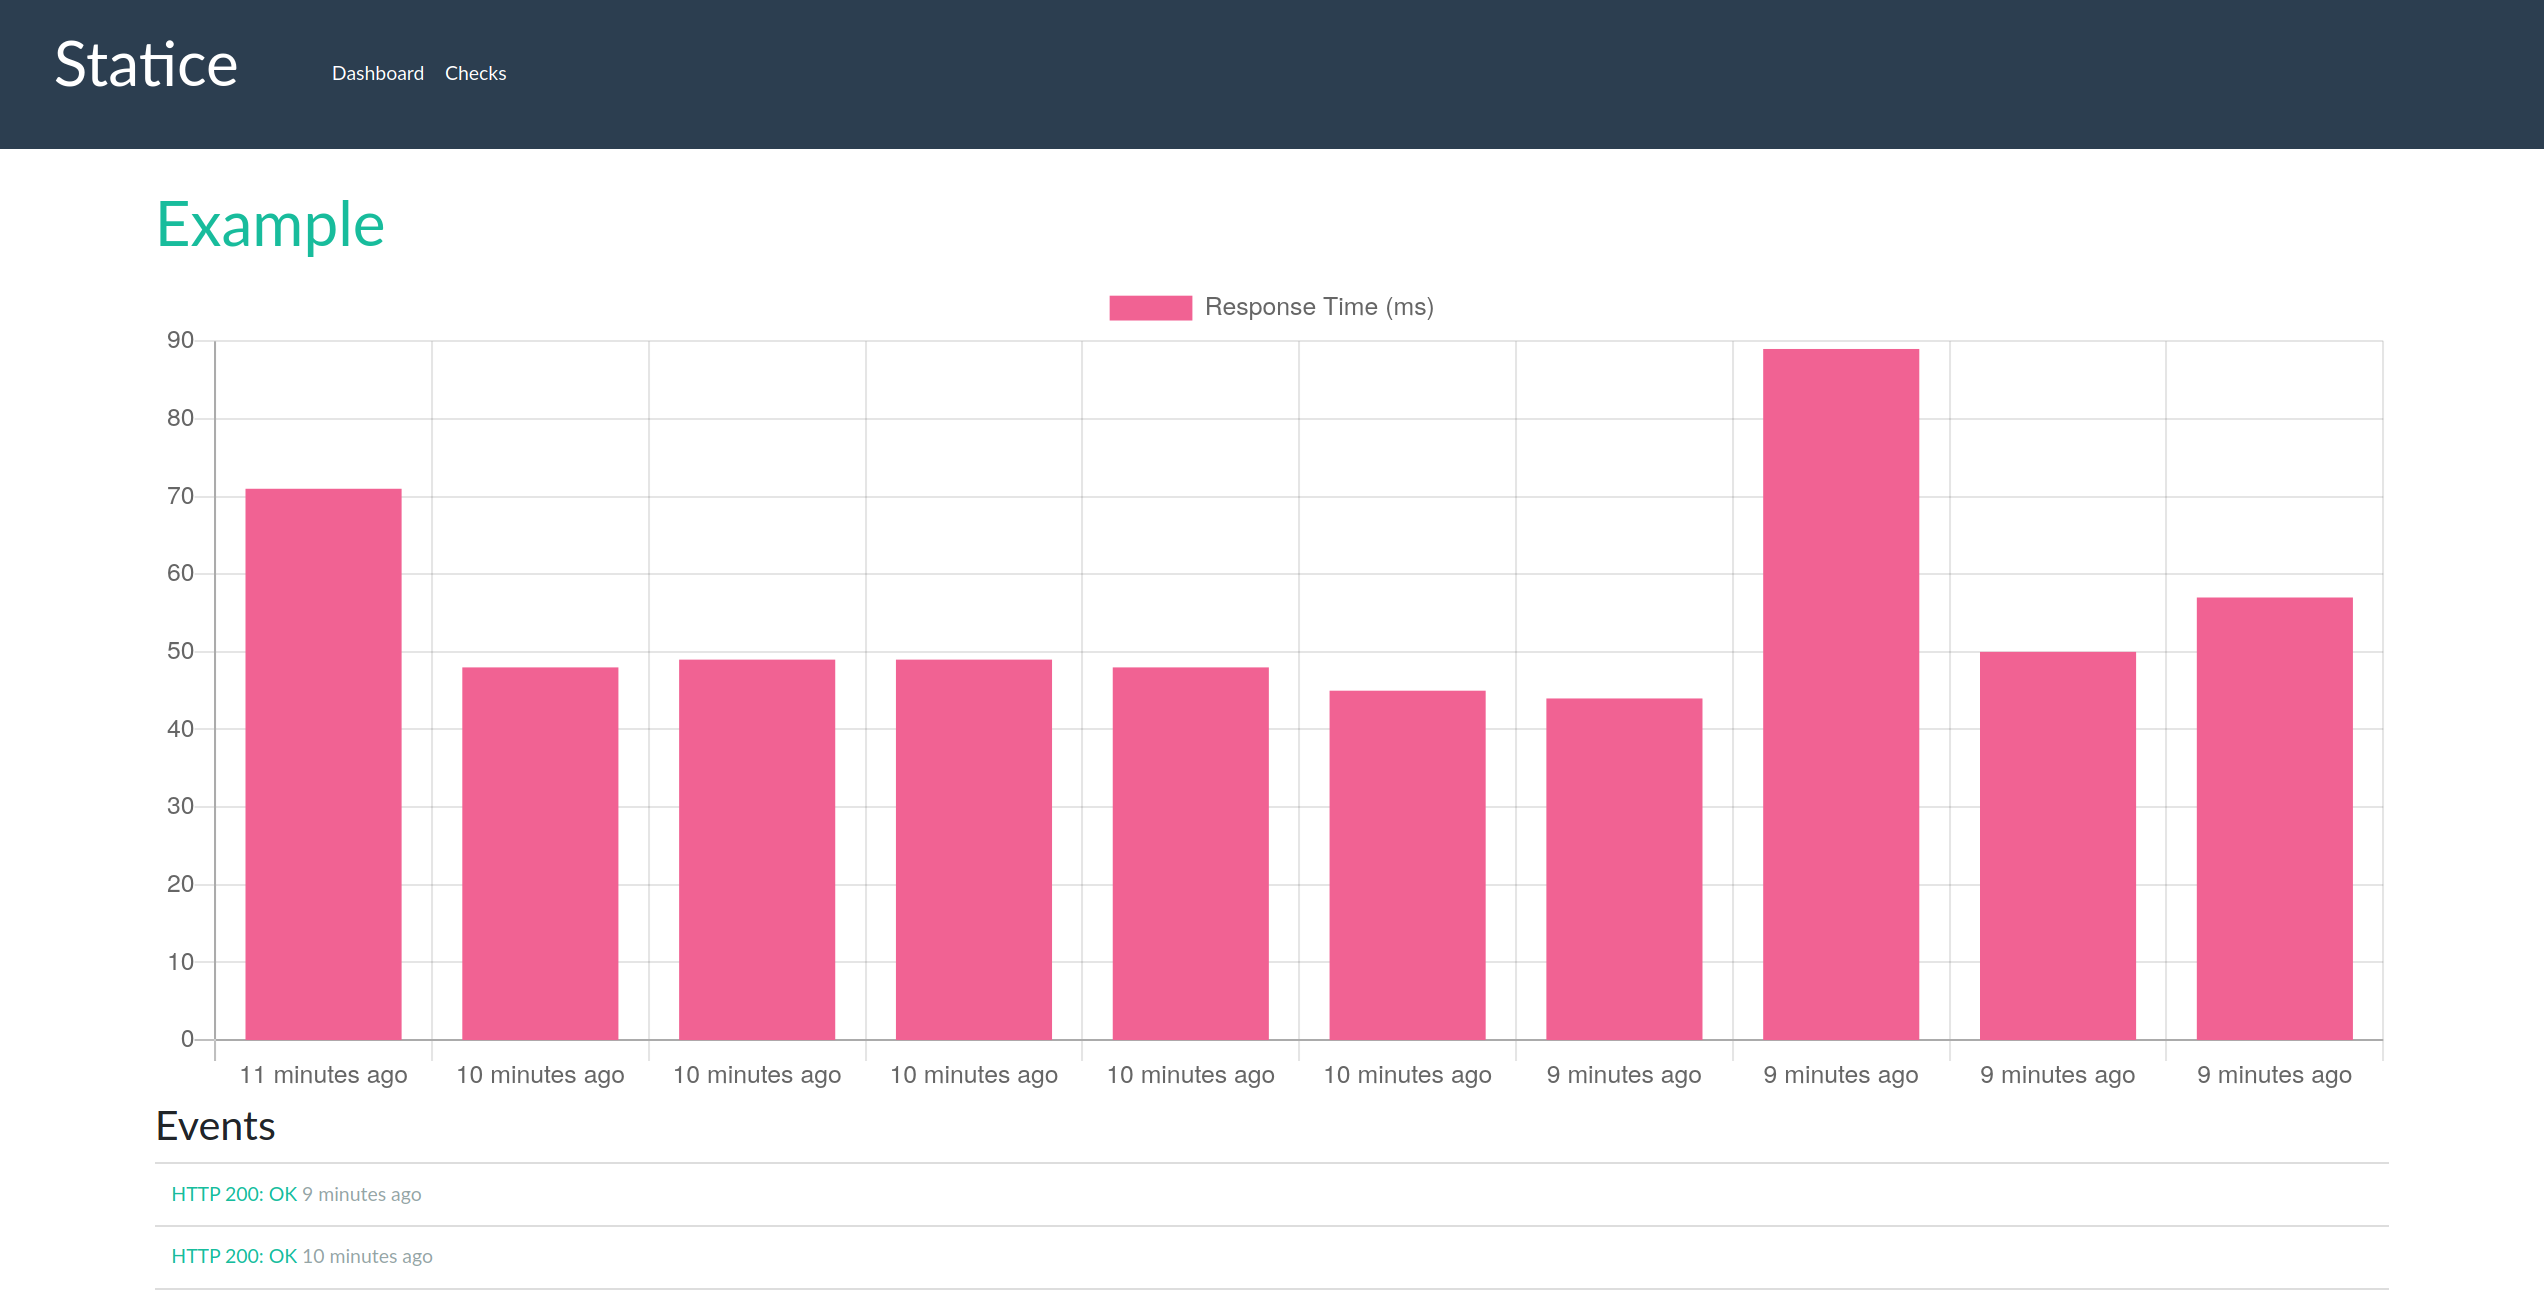
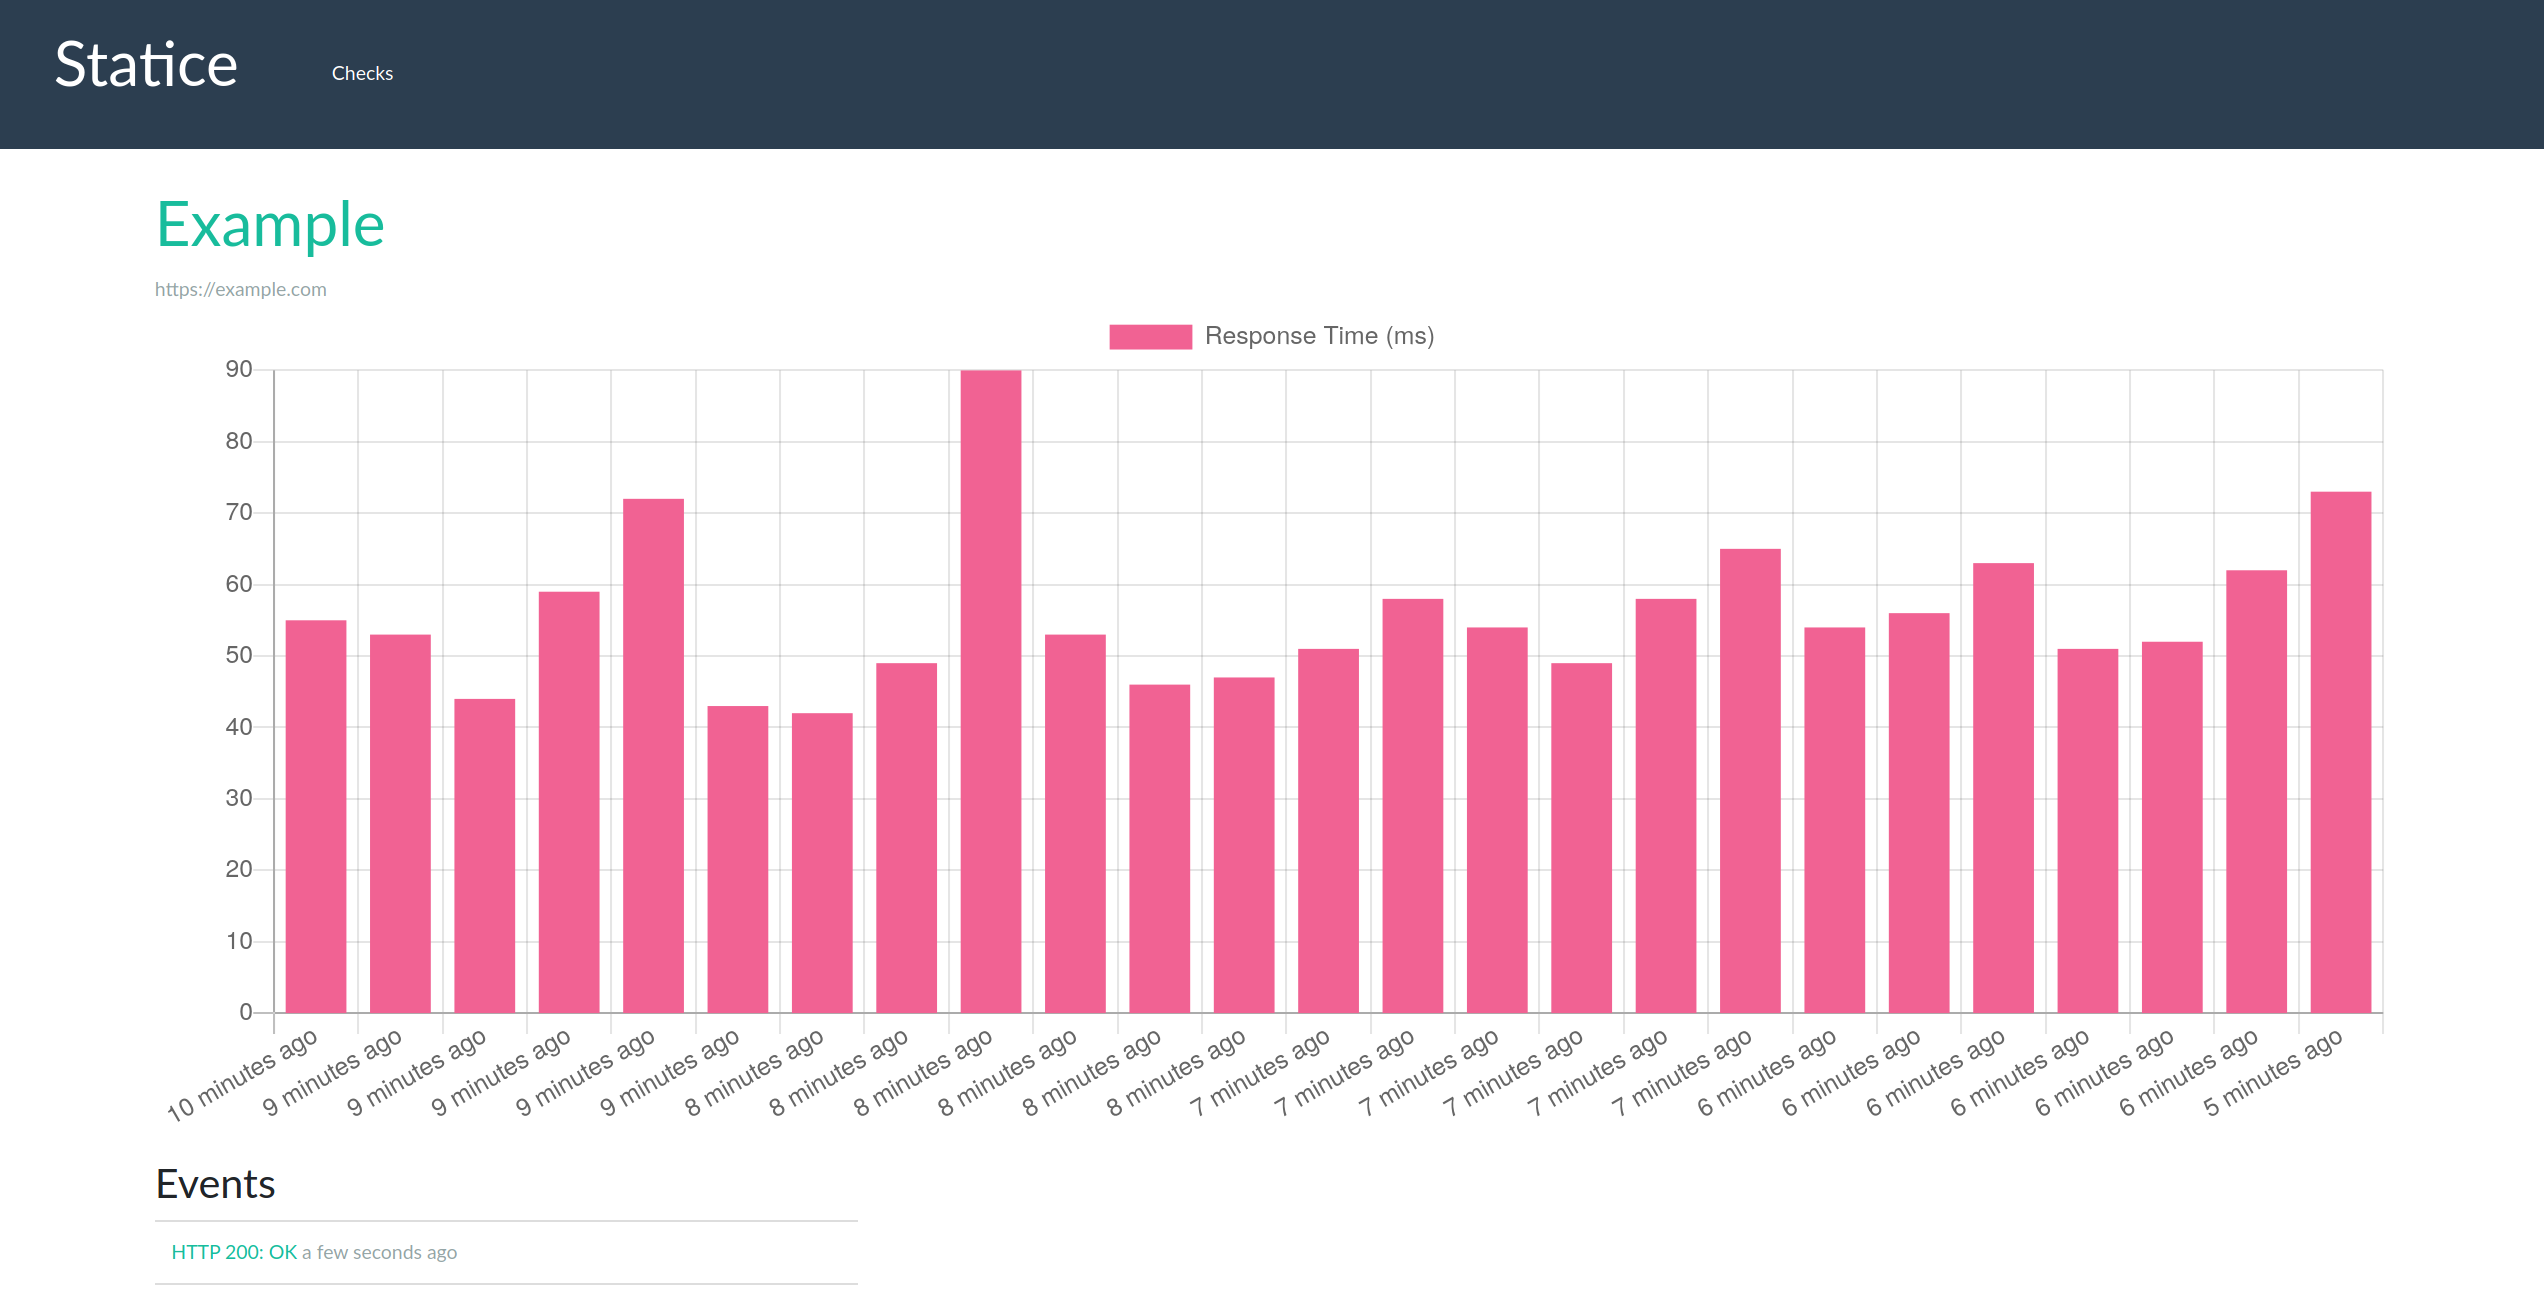
Fix chart and update screenshot

diff --git a/app/checks/routes.py b/app/checks/routes.py
@@ -34,12 +34,13 @@ def view(id):
     check = Check.query.filter_by(id=id).first()
     if check is None:
         abort(404)
+    responses = sorted(check.responses)[:25]
     return render_template(
         "view_check.j2",
         check=check,
         legend="Response Time (ms)",
-        labels=[arrow.get(r.start_time).humanize() for r in sorted(check.responses)],
-        values=[r.elapsed_ms for r in sorted(check.responses)],
+        labels=[arrow.get(r.start_time).humanize() for r in responses],
+        values=[r.elapsed_ms for r in responses],
     )
 
 
